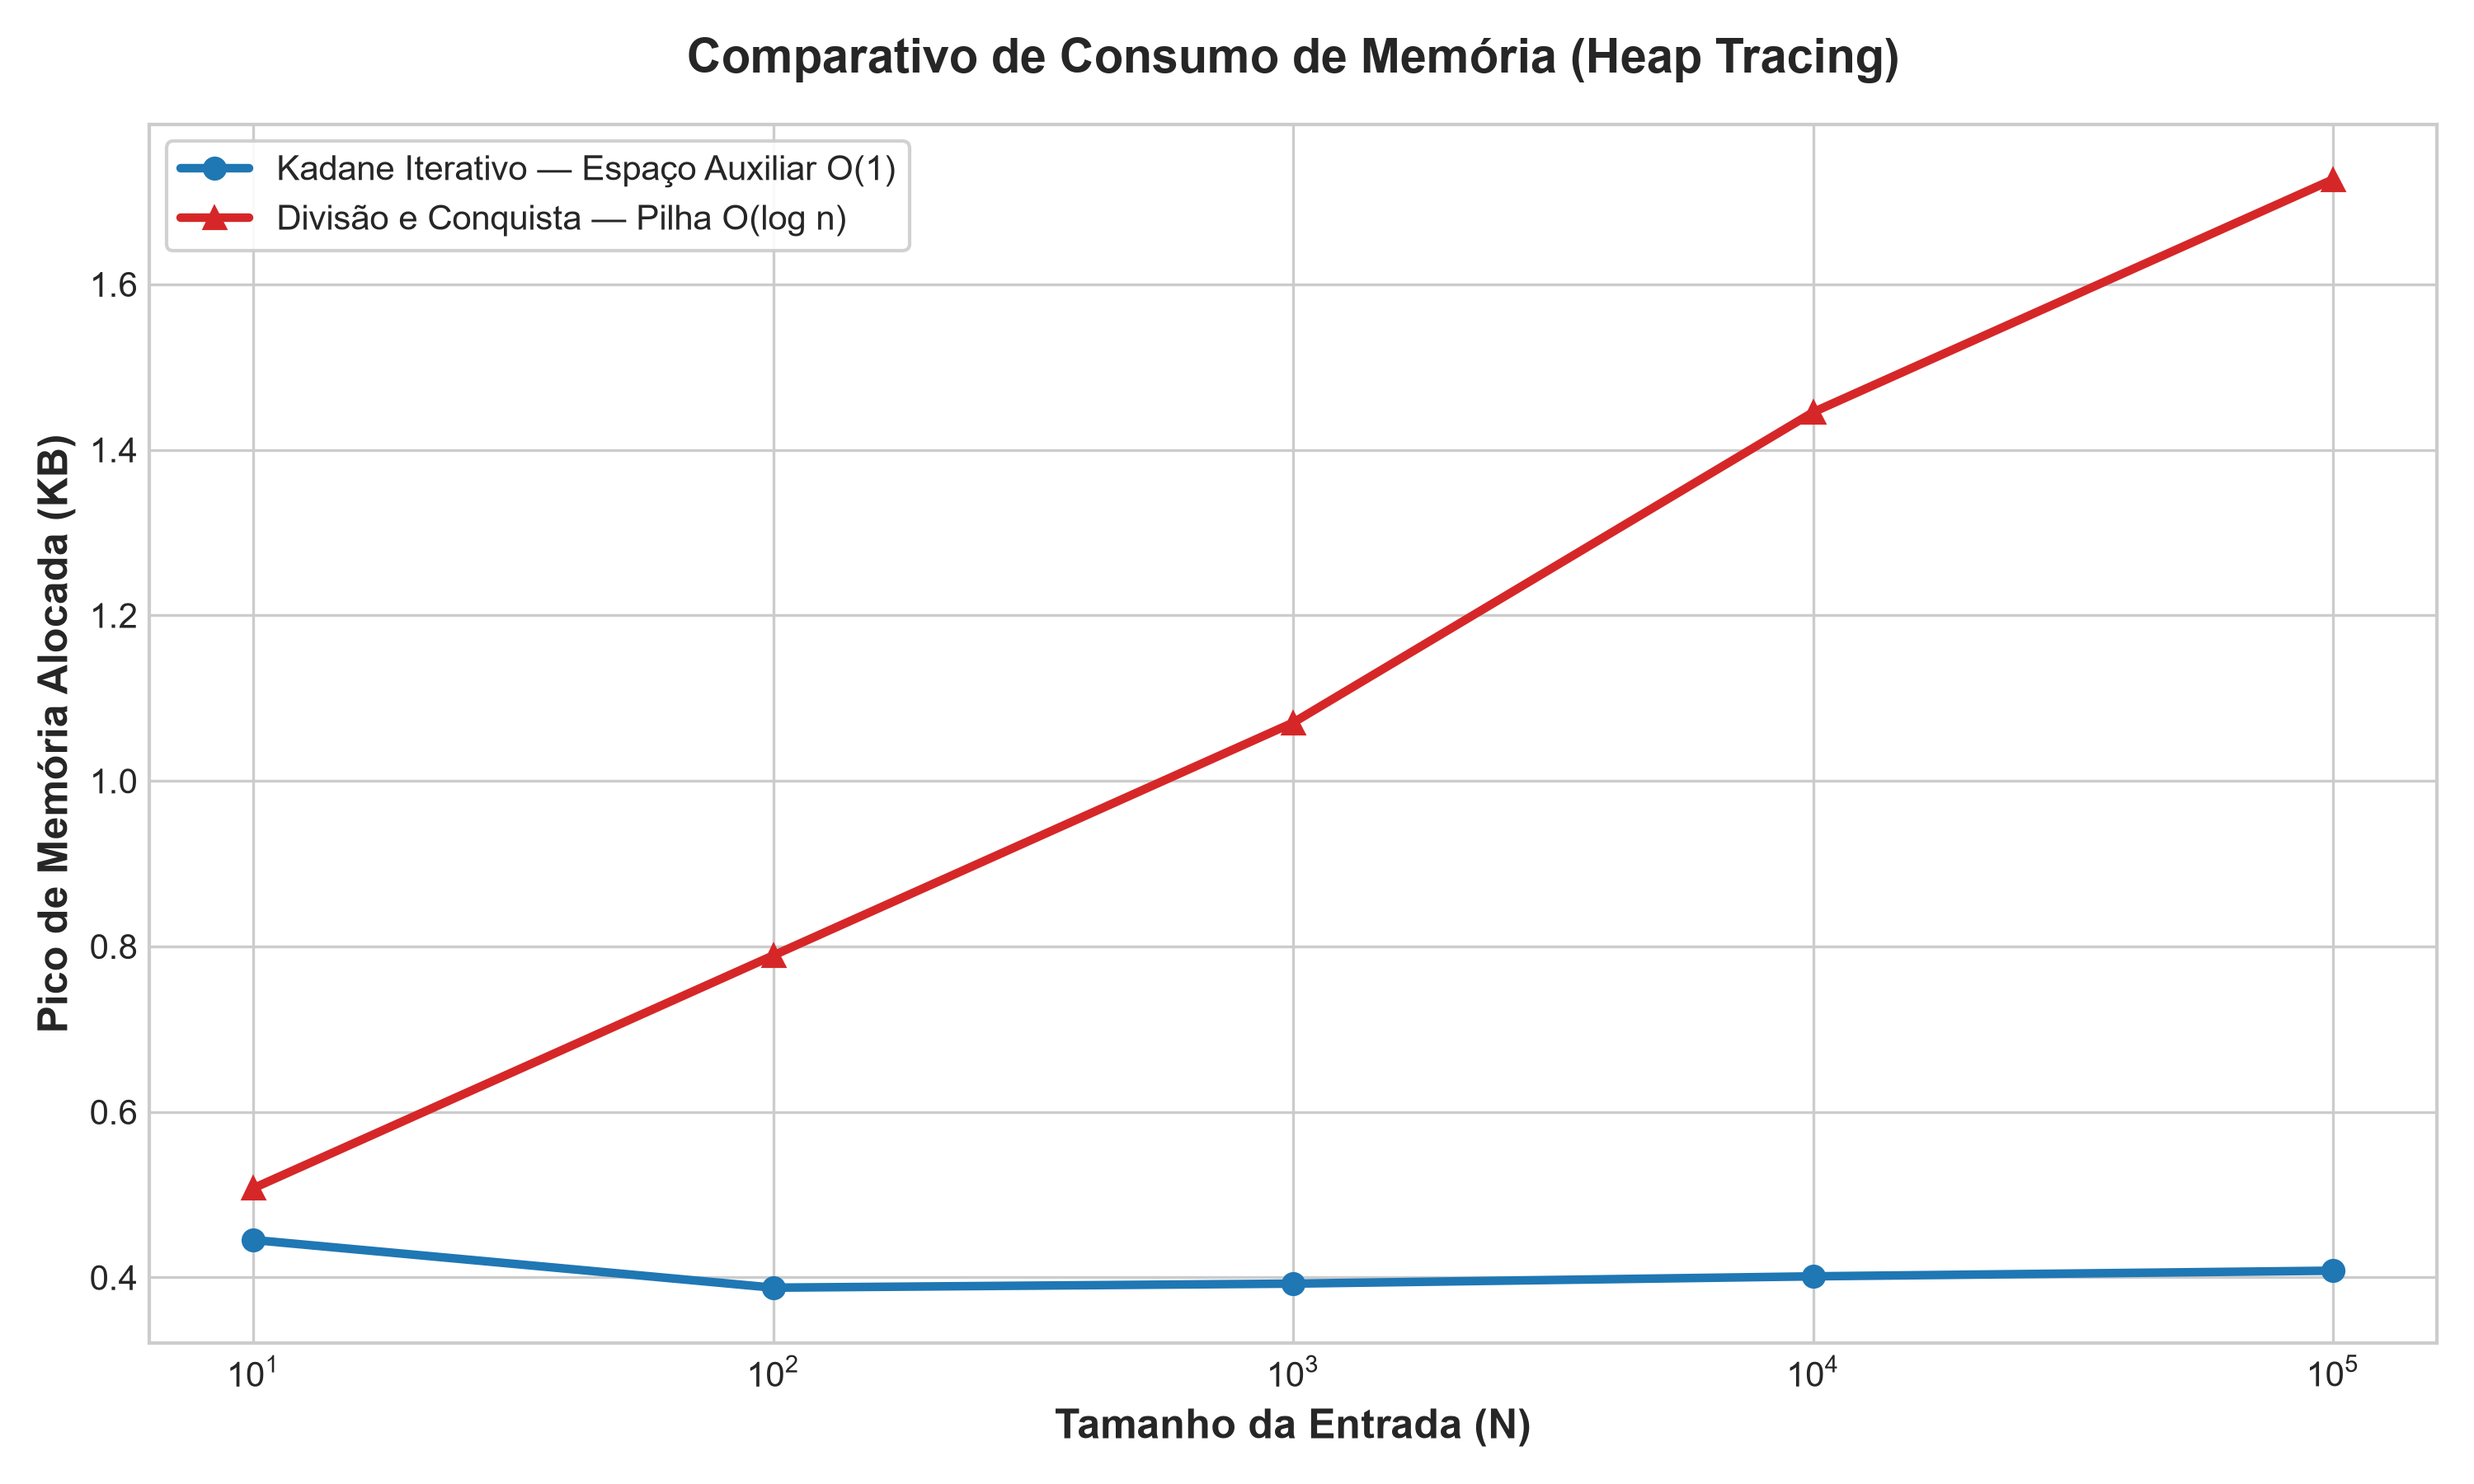
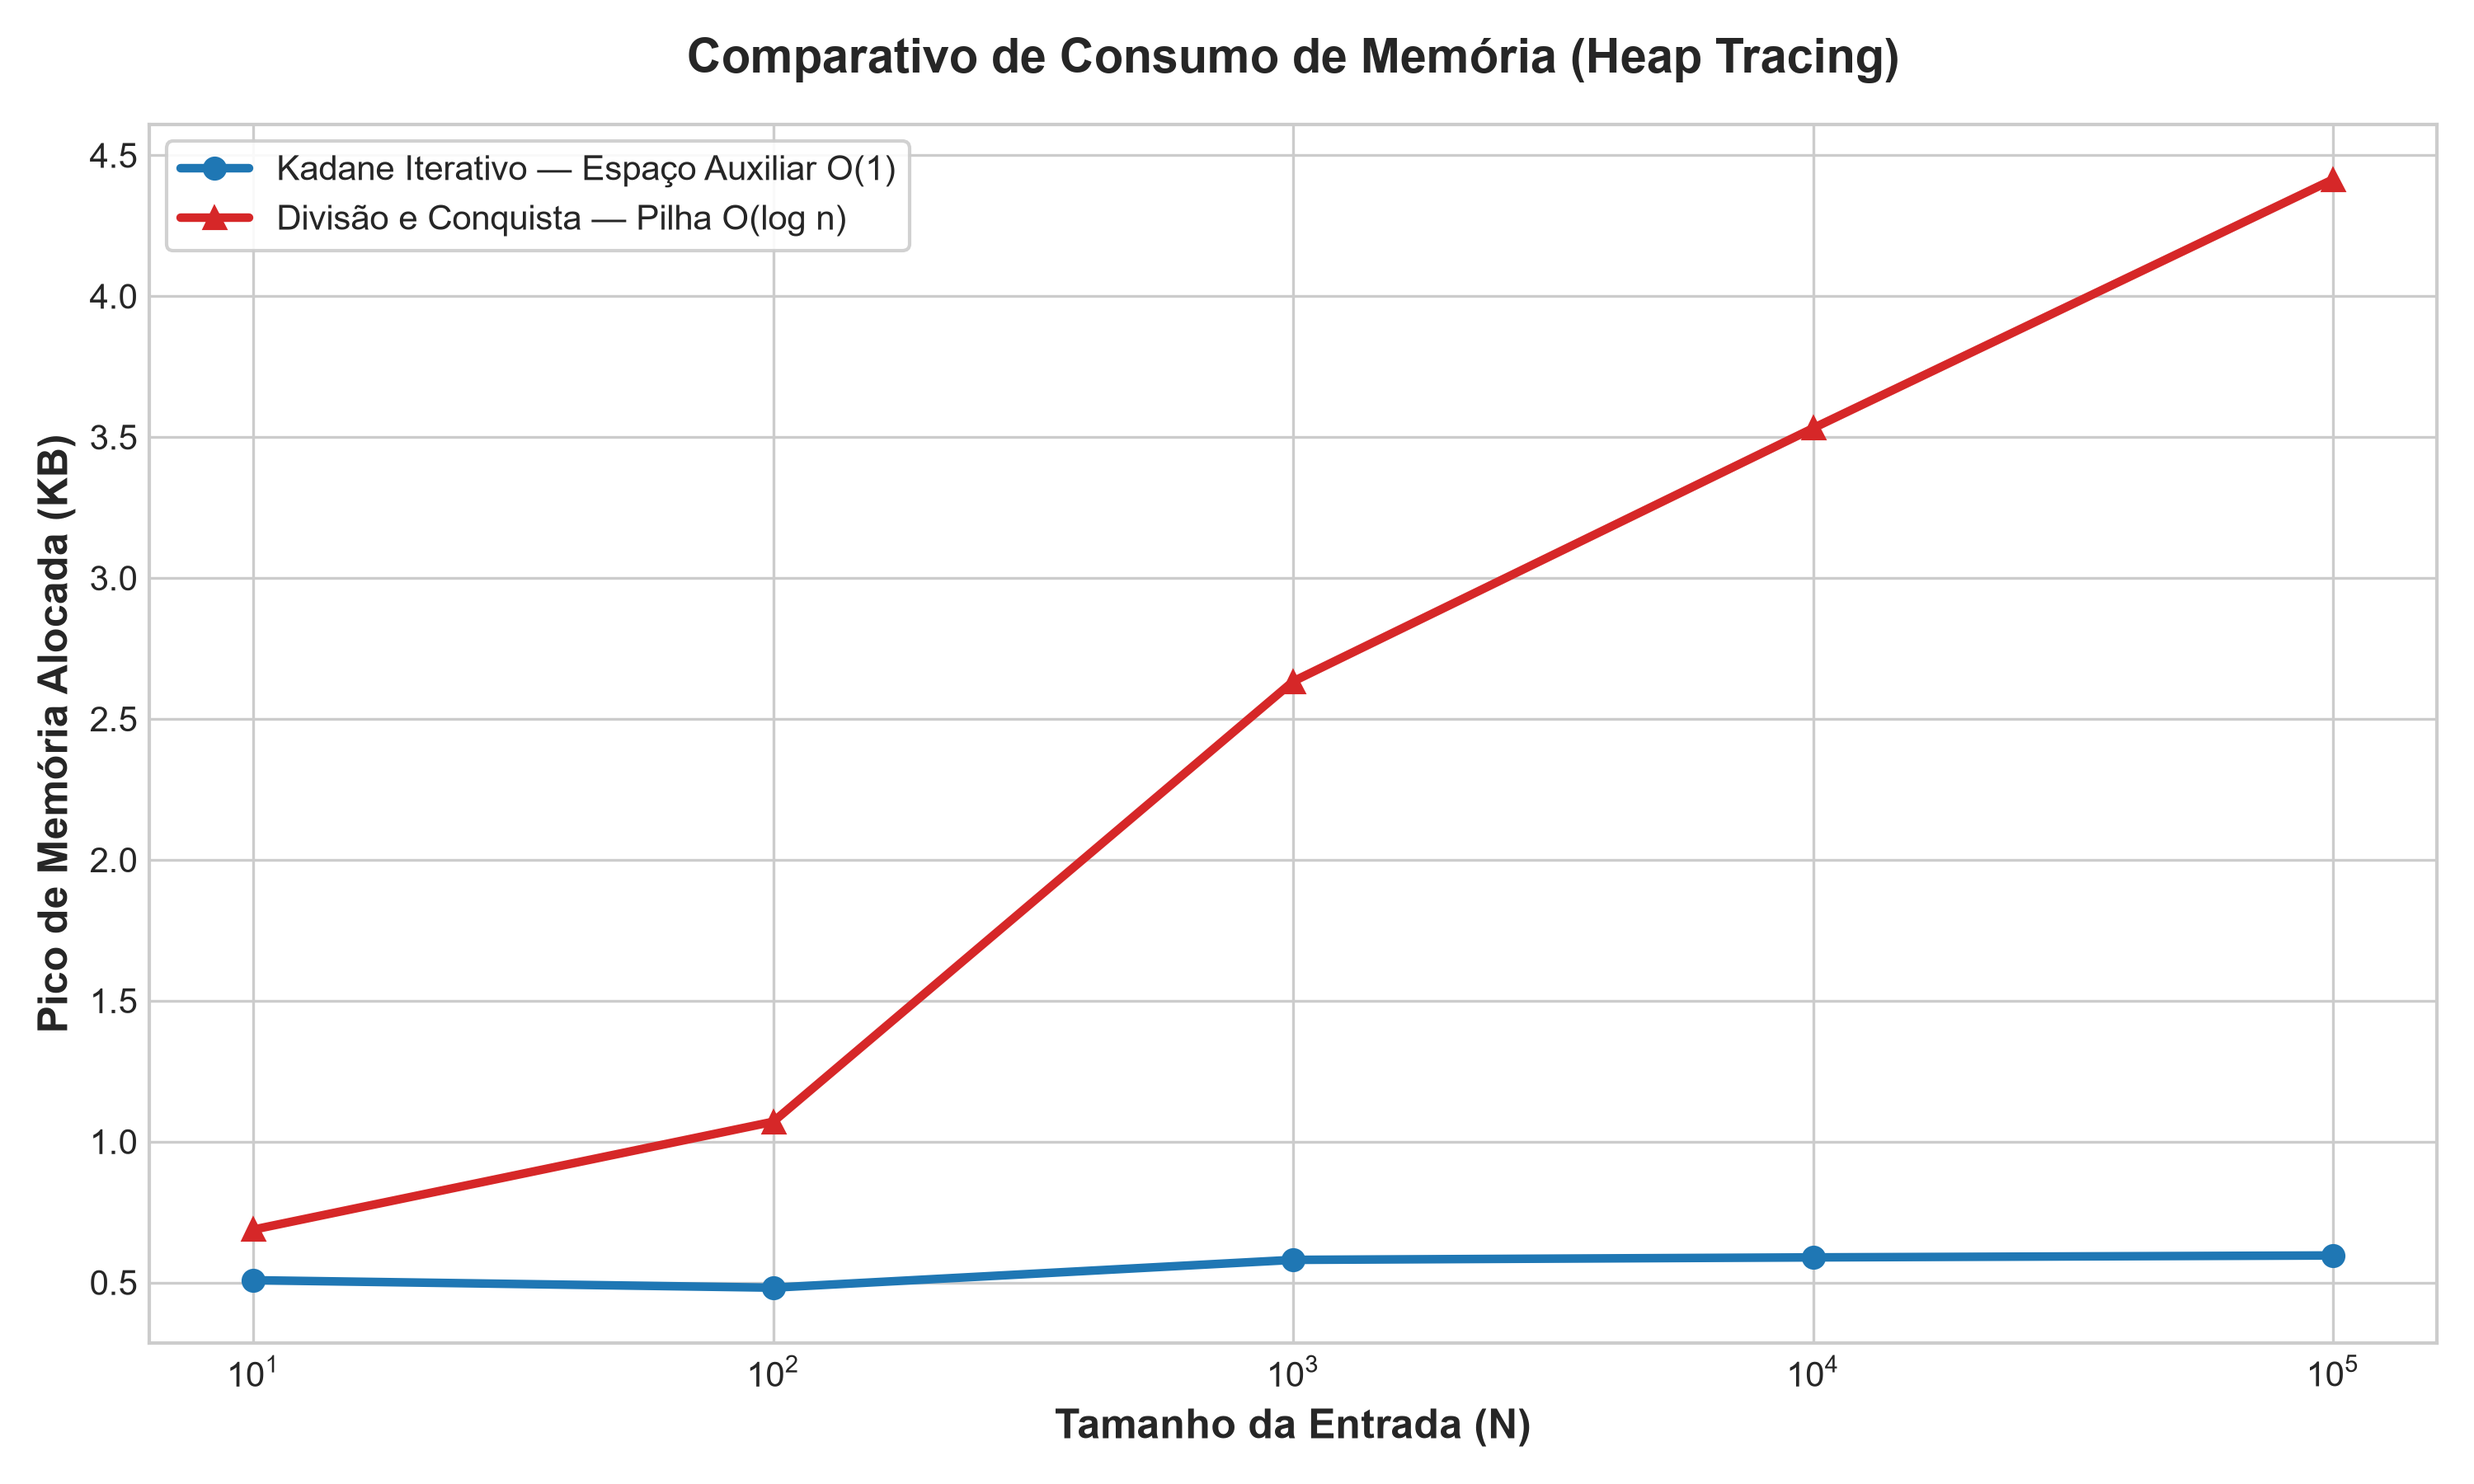
fix(execução): corrige as instruções de execução para windows e remove caminhos absolutos

diff --git a/kadane/benchmarks/results/table.tex b/kadane/benchmarks/results/table.tex
@@ -7,11 +7,11 @@
 \hline
 \textbf{N} & \textbf{Iter. Tempo (s)} & \textbf{Rec. Tempo (s)} & \textbf{Speedup} & \textbf{Iter. Mem (B)} & \textbf{Rec. Mem (B)} \\
 \hline
-10 & 0.000005 & 0.000022 & 4.10x & 456 & 520 \\
-100 & 0.000033 & 0.000234 & 7.17x & 397 & 808 \\
-1000 & 0.000282 & 0.002652 & 9.41x & 402 & 1096 \\
-10000 & 0.002644 & 0.028370 & 10.73x & 411 & 1480 \\
-100000 & 0.026452 & 0.296927 & 11.22x & 418 & 1768 \\
+10 & 0.000005 & 0.000023 & 4.24x & 520 & 704 \\
+100 & 0.000035 & 0.000255 & 7.30x & 493 & 1096 \\
+1000 & 0.000308 & 0.002877 & 9.35x & 594 & 2696 \\
+10000 & 0.002918 & 0.030291 & 10.38x & 603 & 3616 \\
+100000 & 0.029087 & 0.329631 & 11.33x & 610 & 4520 \\
 \hline
 \end{tabular}
 \end{table}

diff --git a/kadane/README.md b/kadane/README.md
@@ -195,50 +195,63 @@ Bateria de 30 rodadas executadas com arrays pseudoaleatórios de inteiros entre 
 | **100.000** | 0.026452 s | 0.296927 s | **11.22x** | 418 bytes | 1.768 bytes | 19 frames |
 
 Os gráficos gerados estão disponíveis em:
-- [Gráfico Comparativo de Tempo de Execução](file:///C:/Users/anybo/Documents/Projects/projeto-pratico-kadane-flood-fill/kadane/benchmarks/results/grafico_tempo.png)
-- [Gráfico Comparativo de Consumo de Memória](file:///C:/Users/anybo/Documents/Projects/projeto-pratico-kadane-flood-fill/kadane/benchmarks/results/grafico_memoria.png)
+- [Gráfico Comparativo de Tempo de Execução](benchmarks/results/grafico_tempo.png)
+- [Gráfico Comparativo de Consumo de Memória](benchmarks/results/grafico_memoria.png)
 
 ---
 
 ## 8. Como Executar
 
-### Bloco 1 — Instalação das Dependências
-Na raiz do projeto:
-```powershell
+> **Dica Multiplataforma:** Para evitar problemas de caminho (`PATH`) com ferramentas instaladas via pip, utilize sempre o prefixo do interpretador (`python -m` no Windows ou `python3 -m` no Linux).
+
+### 🐧 Ambiente Linux (Bash / Shell)
+
+```bash
+# 1. Criação e ativação de ambiente virtual (recomendado em distros modernas / PEP 668)
+python3 -m venv .venv
+source .venv/bin/activate
+
+# 2. Instalação das dependências
 pip install -r kadane/requirements.txt
+
+# 3. Execução dos testes automatizados com cobertura
+python3 -m pytest kadane/tests/ -v --cov=kadane.src --cov-report=term-missing
+
+# 4. Execução dos benchmarks e geração de gráficos
+python3 kadane/benchmarks/runner.py
+python3 kadane/benchmarks/plot.py
+
+# 5. Geração de traces para o visualizador
+python3 kadane/scripts/generate_traces.py
+
+# 6. Abrir visualizador web
+xdg-open kadane/visualizer/index.html || open kadane/visualizer/index.html
+# Ou, se estiver em ambiente headless / sem interface gráfica:
+# python3 -m http.server 8000
 ```
 
-### Bloco 2 — Execução dos Testes Automatizados (com Cobertura)
-Executa todos os 34 testes unitários e valida a equivalência estrita:
-```powershell
-pytest kadane/tests/ -v --cov=kadane.src --cov-report=term-missing
-```
+### 🪟 Ambiente Windows (PowerShell)
 
-### Bloco 3 — Execução dos Benchmarks e Geração de Gráficos
-Executa a bateria de medições e atualiza relatórios e gráficos:
 ```powershell
+# 1. Instalação das dependências
+pip install -r kadane/requirements.txt
+
+# 2. Execução dos testes automatizados com cobertura
+python -m pytest kadane/tests/ -v --cov=kadane.src --cov-report=term-missing
+
+# 3. Execução dos benchmarks e geração de gráficos
 python kadane/benchmarks/runner.py
 python kadane/benchmarks/plot.py
-```
 
-### Bloco 4 — Geração Automatizada de Traces para o Visualizador
-Gera os arquivos `.json` e o bundle standalone para o visualizador:
-```powershell
+# 4. Geração de traces para o visualizador
 python kadane/scripts/generate_traces.py
-```
 
-### Bloco 5 — Abrir o Visualizador Web Interativo
-Abra diretamente no navegador (funciona offline via `file://`):
-```powershell
-# Windows
+# 5. Abrir visualizador web
 start kadane/visualizer/index.html
-
-# Linux / macOS
-xdg-open kadane/visualizer/index.html || open kadane/visualizer/index.html
 ```
 
 ---
 
 ## 9. Roteiro para Apresentação Oral
 Para o roteiro detalhado com tempos e argumentos para a defesa do trabalho, consulte o documento:  
-👉 **[APRESENTACAO.md](file:///C:/Users/anybo/Documents/Projects/projeto-pratico-kadane-flood-fill/kadane/APRESENTACAO.md)**
+👉 **[APRESENTACAO.md](APRESENTACAO.md)**

diff --git a/kadane/benchmarks/results/report.md b/kadane/benchmarks/results/report.md
@@ -1,6 +1,6 @@
 # Relatório de Benchmark Comparativo — Algoritmo de Kadane
 
-- **Data da Coleta:** 2026-10-02T13:40:12.889574
+- **Data da Coleta:** 2026-10-02T19:31:04.516288
 - **Rodadas por Medição:** 30
 - **Semente Pseudoaleatória:** 42
 - **Faixa de Valores Inteiros:** `[-1000, 1000]`
@@ -9,21 +9,21 @@
 
 | $N$ | Iterativo Tempo Médio (s) | Iterativo Desvio Padrão | Recursivo Tempo Médio (s) | Recursivo Desvio Padrão | Speedup (Iter/Rec) |
 | :---: | :---: | :---: | :---: | :---: | :---: |
-| 10 | 0.000005 | 0.000002 | 0.000022 | 0.000001 | **4.10x** |
-| 100 | 0.000033 | 0.000003 | 0.000234 | 0.000003 | **7.17x** |
-| 1,000 | 0.000282 | 0.000014 | 0.002652 | 0.000074 | **9.41x** |
-| 10,000 | 0.002644 | 0.000072 | 0.028370 | 0.000538 | **10.73x** |
-| 100,000 | 0.026452 | 0.000537 | 0.296927 | 0.001759 | **11.22x** |
+| 10 | 0.000005 | 0.000001 | 0.000023 | 0.000001 | **4.24x** |
+| 100 | 0.000035 | 0.000003 | 0.000255 | 0.000025 | **7.30x** |
+| 1,000 | 0.000308 | 0.000014 | 0.002877 | 0.000242 | **9.35x** |
+| 10,000 | 0.002918 | 0.000108 | 0.030291 | 0.000853 | **10.38x** |
+| 100,000 | 0.029087 | 0.001085 | 0.329631 | 0.014071 | **11.33x** |
 
 ## 2. Tabela Comparativa de Consumo de Memória (Heap)
 
 | $N$ | Iterativo Pico Memória (bytes) | Recursivo Pico Memória (bytes) | Relação de Memória (Rec / Iter) |
 | :---: | :---: | :---: | :---: |
-| 10 | 456 | 520 | 1.14x |
-| 100 | 397 | 808 | 2.04x |
-| 1,000 | 402 | 1,096 | 2.73x |
-| 10,000 | 411 | 1,480 | 3.60x |
-| 100,000 | 418 | 1,768 | 4.23x |
+| 10 | 520 | 704 | 1.35x |
+| 100 | 493 | 1,096 | 2.22x |
+| 1,000 | 594 | 2,696 | 4.54x |
+| 10,000 | 603 | 3,616 | 6.00x |
+| 100,000 | 610 | 4,520 | 7.41x |
 
 ## 3. Tabela Comparativa de Profundidade da Pilha de Chamadas (*Call Stack*)
 
